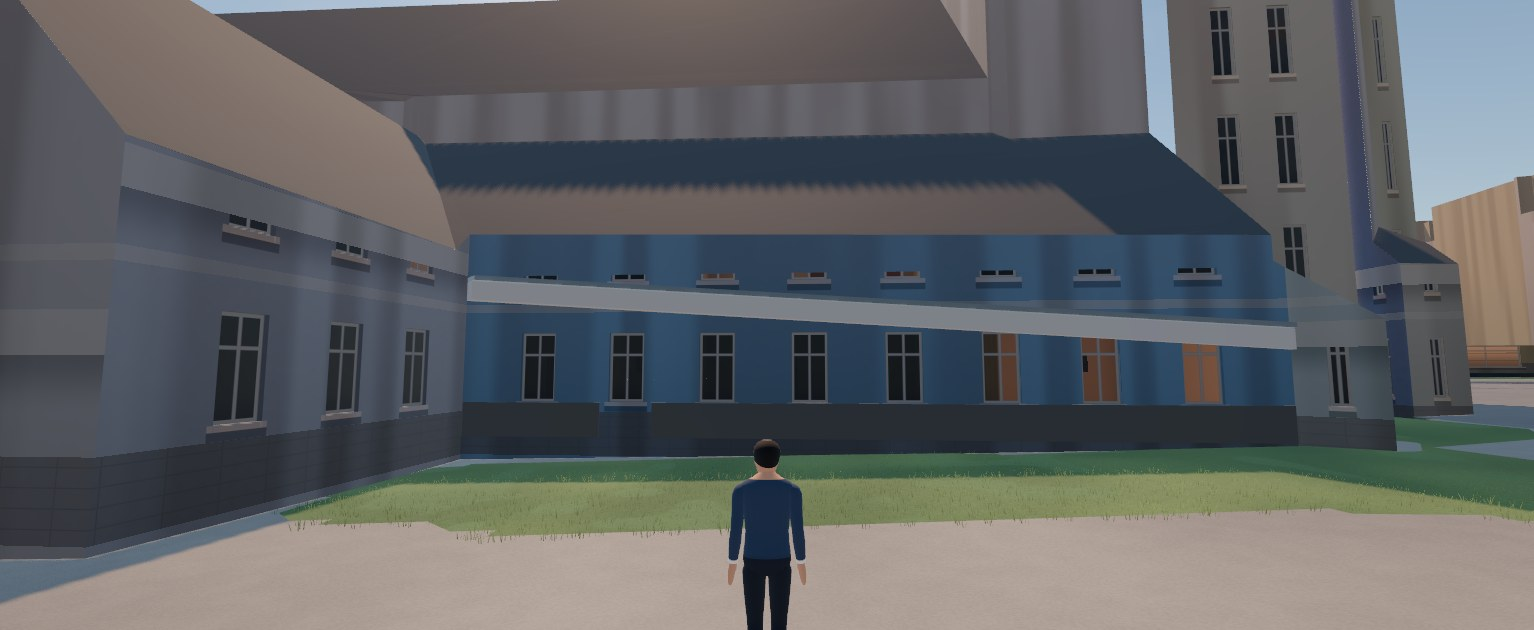
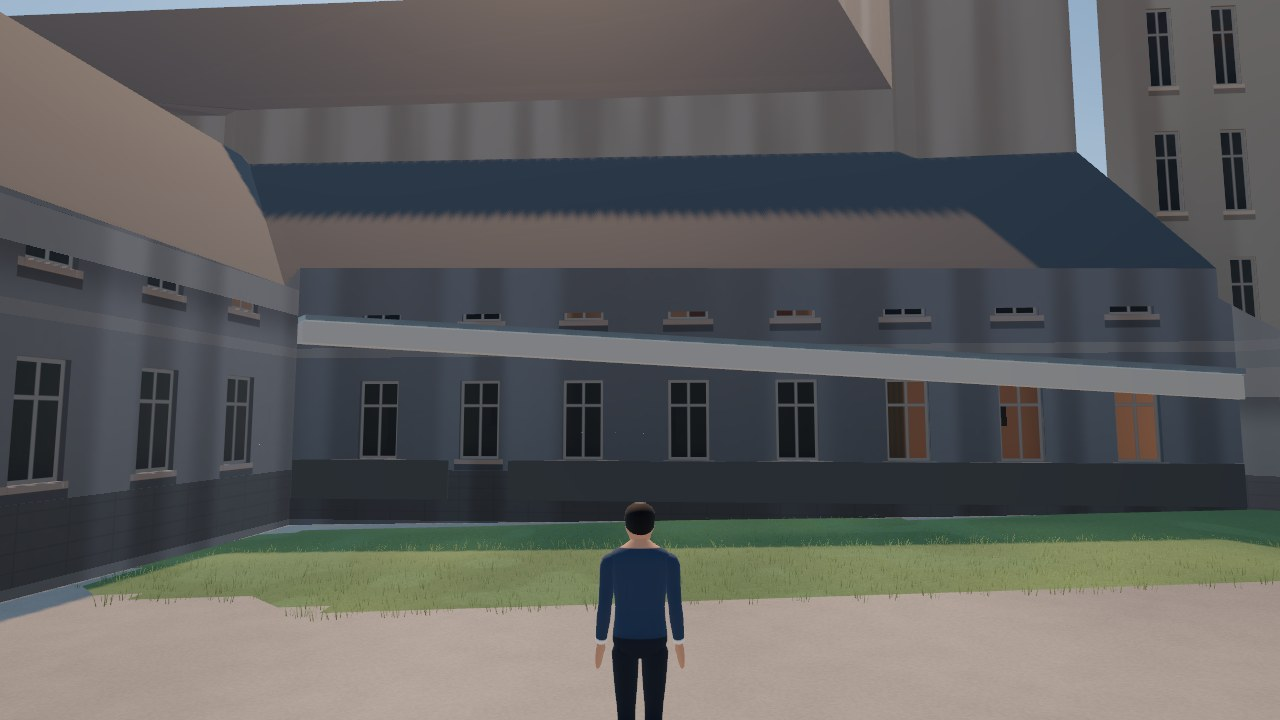
Phase 5: damp the skylight cast instead of boosting it (blue walls)
appearance_calibrate restored chroma 2.2x on every hue, which turned the faint
blue cast of shadow views into blue walls (2,081 of 29,310, Budolfi among them).
Blue to purple hues are now damped unless a sunlit wall is clearly blue.
Recalibrated and rebuilt the atlases and window grids: 38 blue walls left.

diff --git a/tools/geodata/appearance_calibrate.py b/tools/geodata/appearance_calibrate.py
@@ -15,7 +15,8 @@ The photogrammetric tones (`tone`, appearance/2) have three problems when they a
      building: same material, different light); buildings without sunlit walls take the median offset of buildings within
      NEIGHBOUR_R metres that have both (same street side by proximity), else a global transfer fitted on all such
      buildings (L' = a + b L, chroma-plane shift);
-  2. chroma is restored (CHROMA_GAIN, soft-capped);
+  2. chroma is restored (CHROMA_GAIN, soft-capped), except blue to purple hues (COOL_HUES: the skylight cast), which are damped
+     unless a sunlit wall is clearly blue;
   3. BBR `mursten` walls with a pinkish hue become red-brown brick (darker) or yellow brick (lighter);
   4. lightness is compressed above L_SHOULDER and floored, and the colour is clipped to the sRGB gamut by reducing chroma.
 `cal` records the route: own | neighbours | global | none (sunlit / unchanged), `cal_brick` marks rule 3.
@@ -40,6 +41,12 @@ L_MAX = 0.84
 L_MIN = 0.28
 OFFSET_L_RANGE = (-0.05, 0.25)
 OFFSET_AB_MAX = 0.06
+# Blue to purple (OKLab hue 200-320 deg) is the skylight cast of shadow views, not a facade colour: its chroma is damped instead of
+# restored, so the cast never turns into a blue wall (Aalborg: 7 % of walls, the whitewashed Budolfi among them). Only a sunlit wall
+# that is clearly blue in the photo (a painted facade) keeps its measured chroma.
+COOL_HUES = (200.0, 320.0)
+COOL_GAIN = 0.5
+COOL_KEEP_C = 0.06
 
 _M1 = np.array([[0.4122214708, 0.5363325363, 0.0514459929], [0.2119034982, 0.6806995451, 0.1073969566], [0.0883024619, 0.2817188376, 0.6299787005]])
 _M2 = np.array([[0.2104542553, 0.7936177850, -0.0040720468], [1.9779984951, -2.4285922050, 0.4505937099], [0.0259040371, 0.7827717662, -0.8086757660]])
@@ -105,10 +112,12 @@ def brick_rule(lab):
     return from_lch(min(L, 0.56), float(np.clip(max(C * 1.8, 0.07), 0.07, 0.11)), 42.0 + 0.3 * (h - 42.0)), True
 
 
-def finish(lab, mursten=False):
+def finish(lab, mursten=False, sunlit=False):
     """Steps 2-4 of the module docstring on an OKLab colour; returns (sRGB, brick_flag)."""
     L, C, h = lch(lab)
     gain = CHROMA_GAIN
+    if COOL_HUES[0] <= h <= COOL_HUES[1]:
+        gain = 1.0 if sunlit and C >= COOL_KEEP_C else COOL_GAIN
     C2 = C * gain
     if C2 > CHROMA_SOFT_MAX:  # soft cap: do not push already vivid walls further
         C2 = CHROMA_SOFT_MAX + (C2 - CHROMA_SOFT_MAX) * 0.3
@@ -207,7 +216,7 @@ def calibrate(geo: dict, offsets: dict | None = None, transfer: tuple | None = N
                     else:
                         lab = np.array([alpha + beta * lab[0], lab[1] + dab[0], lab[2] + dab[1]])
                         route = "global"
-            rgb, brick = finish(lab, mursten)
+            rgb, brick = finish(lab, mursten, bool(w.get("sunlit")))
             w["tone_cal"] = [round(float(x), 3) for x in rgb]
             w["cal"] = route
             if brick:

diff --git a/tools/geodata/tests/test_calibrate.py b/tools/geodata/tests/test_calibrate.py
@@ -81,6 +81,18 @@ def test_finish_keeps_lightness_in_the_plausible_range_and_in_gamut():
         assert np.all(out >= 0) and np.all(out <= 1)
 
 
+def test_a_skylight_cast_is_damped_not_restored_but_a_painted_blue_wall_stays():
+    # Budolfi: whitewashed, the shadow view leaves a faint blue cast that the chroma restore used to turn into a blue wall
+    cast = srgb_to_oklab([0.55, 0.661, 0.774])
+    assert lch(srgb_to_oklab(finish(cast)[0]))[1] < lch(cast)[1], "the cast loses chroma"
+    painted = srgb_to_oklab([0.25, 0.42, 0.70])
+    _, C_sun, h_sun = lch(srgb_to_oklab(finish(painted, sunlit=True)[0]))
+    _, C_shadow, _ = lch(srgb_to_oklab(finish(painted, sunlit=False)[0]))
+    assert C_sun > 0.09 and C_sun > 1.5 * C_shadow and 200 <= h_sun <= 320, "a sunlit, clearly blue facade stays blue (the soft cap applies)"
+    warm = srgb_to_oklab([0.80, 0.74, 0.66])
+    assert lch(srgb_to_oklab(finish(warm)[0]))[1] > lch(warm)[1], "warm hues are still restored"
+
+
 def test_inferred_walls_follow_their_building_and_stats_shape():
     b = building("a", [wall(0, [0.85, 0.80, 0.70], True), {"edge": 1, "ring": 0, "tone": [0.5, 0.5, 0.5], "conf": "inferred"}], material="mursten")
     geo = {"buildings": [b], "appearance": {}}

diff --git a/docs/aalborg-phase5.md b/docs/aalborg-phase5.md
@@ -45,12 +45,14 @@ default; `tone_cal` (appearance_calibrate.py) restores chroma as upstream does f
 | `jomfru-ane-gade.jpg` | photo atlases on the near facades (133 resident at this spot), entrances and shopfronts at street level |
 | `gammel-torv.jpg` | the square's slab paving, photo tones on the surrounding walls |
 | `aalborghus.jpg` | measured lawn around the castle; its yellow and white walls come out right |
-| `budolfi.jpg` | **a defect**: the cathedral's shadow-side walls draw blue (see below) |
+| `budolfi.jpg` | the whitewashed cathedral's shadow-side walls, light grey (they drew bright blue before the fix below) |
 | `utzon.jpg` | grass slopes on the harbour front, photo tones on the old-town houses |
 
-**Blue walls.** `appearance_calibrate` turns shadow views' faint skylight cast into strong blue: 2,081 of 29,310 walls (7 %)
-are blue after `tone_cal` against 981 before, also on sunlit walls (route `none`), so the chroma restore (`CHROMA_GAIN`) amplifies
-the cast. Budolfi (whitewashed) is the visible case. A tuning fix for Aalborg's light is open.
+**Blue walls (fixed).** The chroma restore of `appearance_calibrate` (`CHROMA_GAIN` 2.2 on every hue) turned the faint skylight cast
+of shadow views into strong blue: 2,081 of 29,310 walls (7 %) were blue after `tone_cal`, against 981 in the raw tones, Budolfi the
+visible case. Blue to purple hues (`COOL_HUES`, OKLab 200–320°) are now damped (`COOL_GAIN` 0.5) instead, unless a sunlit wall is
+clearly blue (C ≥ 0.06: a painted facade keeps its colour). After `finalize` and `atlas --force`: 38 blue walls; windows
+`regress` 8 of 3,043.
 
 Viewing locally: `.claude/launch.json` now serves with `tools/hosting/serve_range.py` on port 8010, which keeps connections
 alive (HTTP/1.1) and has a 128-deep listen backlog. Python's `http.server` closed every connection and had a backlog of 5; on this
